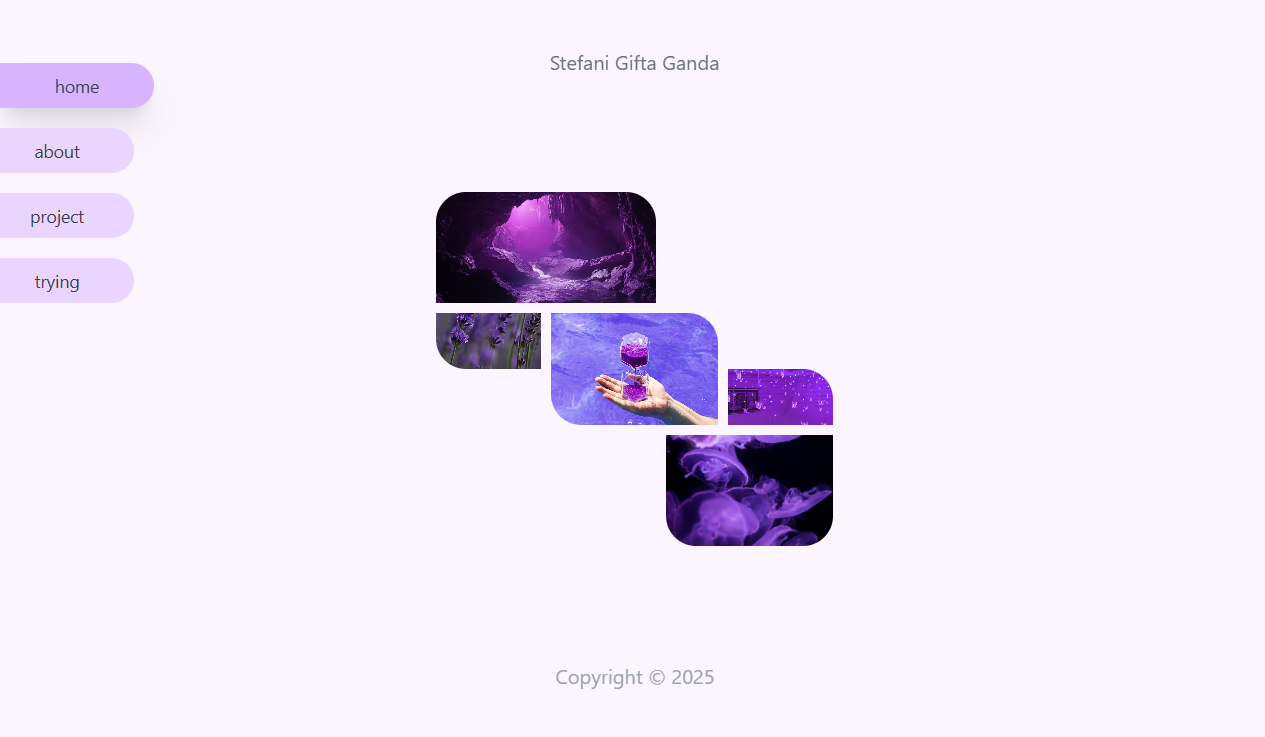
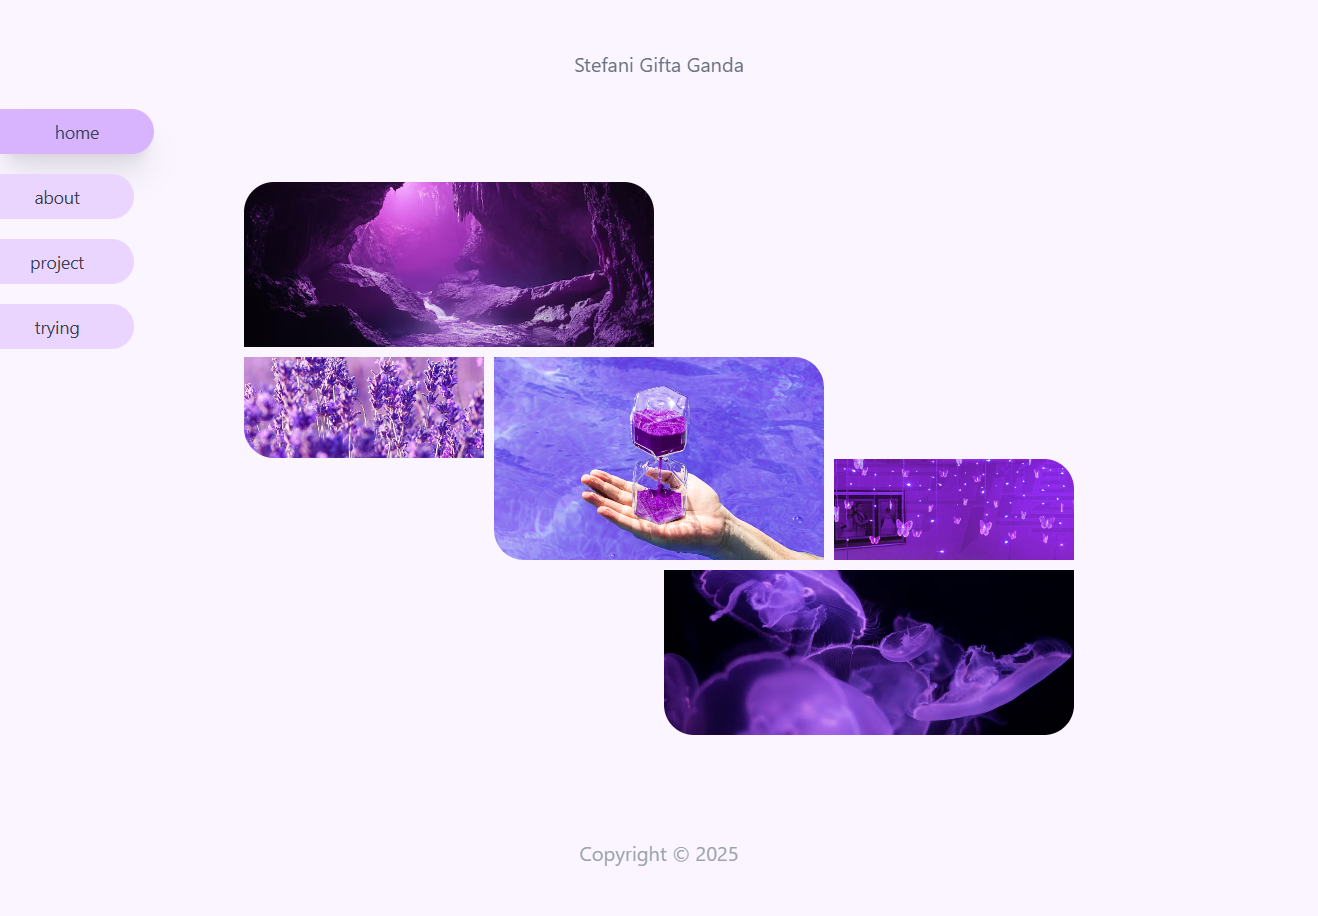
Added responsiveness

diff --git a/index.html b/index.html
@@ -45,7 +45,7 @@
         </div>
         <div class="overflow-hidden rounded-bl-3xl row-start-2 hover:shadow-[0_0_20px_rgba(128,0,255,0.8)] h-3/6">
           <img class="transition duration-300 hover:scale-150 hover:brightness-110 h-full w-full object-cover"
-              src="https://i.pinimg.com/originals/d7/f6/7f/d7f67f5defd890064f079f1d9a7be8e2.jpg">
+              src="https://wallpapersok.com/images/hd/lavender-field-flowers-aesthetic-347pqquotgjpnvhg.jpg">
         </div>
         <div class="overflow-hidden rounded-bl-3xl rounded-tr-3xl col-start-2 col-span-2 hover:shadow-[0_0_20px_rgba(128,0,255,0.8)]">
           <img class="transition duration-300 hover:scale-150 hover:brightness-110 h-full w-full object-cover"

diff --git a/README.md b/README.md
@@ -5,12 +5,12 @@ Lil web experiment because I love purple and wanted to have fun playing with Tai
 <table>
   <tr>
     <td>
-      <img src="./screenshot.png" alt="Homepage" style="height:300px;">
+      <img src="./screenshot.png" alt="Homepage" style="height:360px;">
       <div>Homepage</div>
     </td>
     <td>
-      <img src="./screenshot-r.png" alt="On hover" style="height:300px; object-fit:contain;">
-      <div>On hover</div>
+      <img src="./screenshot-r.png" alt="On hover" style="height:360px;">
+      <div>Small screen, image hovered</div>
     </td>
   </tr>
 </table>
